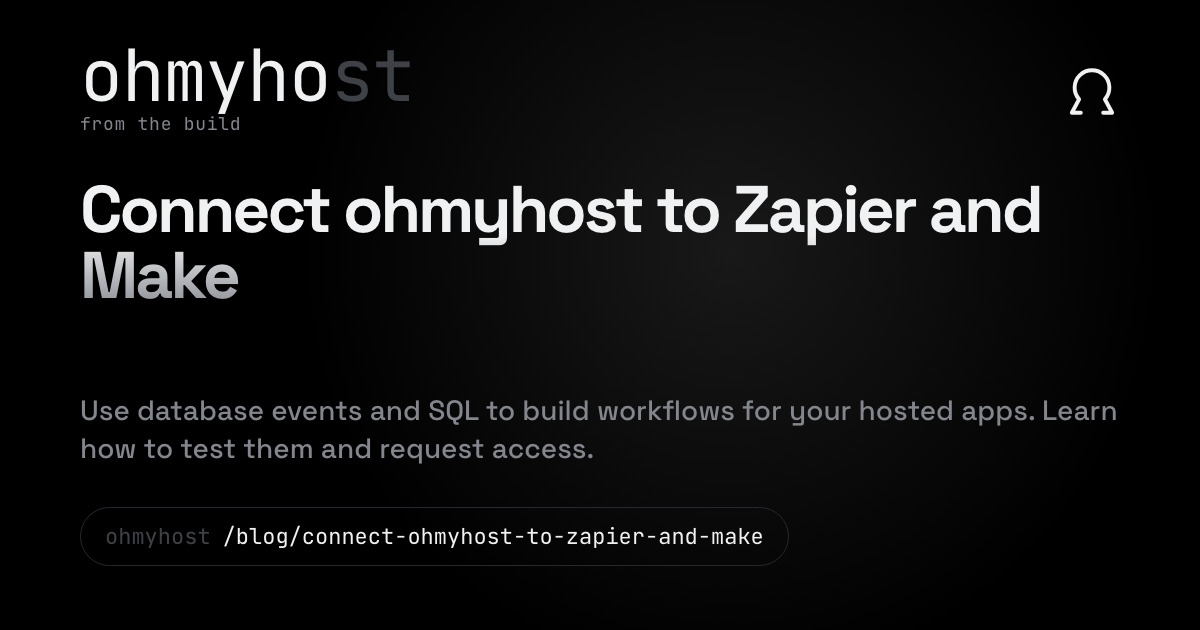
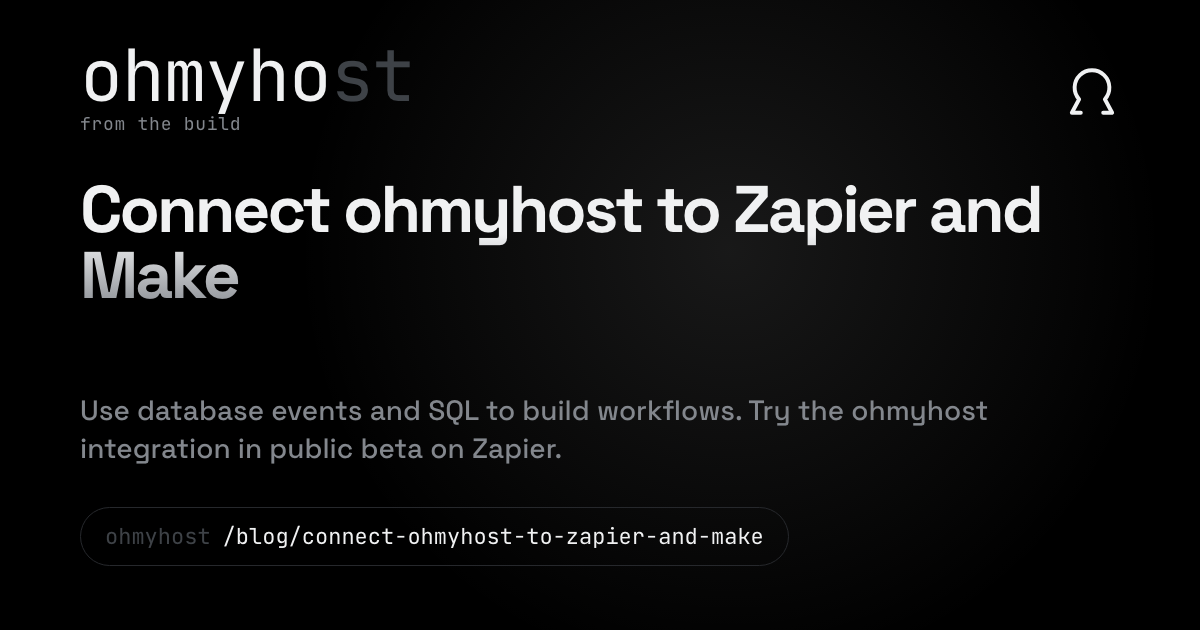
Link the public Zapier beta from the automation guide

Changed region(s): [[0.0617, 0.6937, 0.4933, 0.754], [0.6167, 0.6333, 0.925, 0.6937]]

diff --git a/src/generated-content.ts b/src/generated-content.ts
@@ -53,20 +53,20 @@ export const CONTENT_PAGE_LIST: readonly ContentPage[] = [
     path: "/blog/connect-ohmyhost-to-zapier-and-make",
     title: "Connect your ohmyhost app to Zapier and Make",
     description:
-      "Connect hosted apps to Zapier and Make with database events, SQL actions, and project operations. Learn how to test workflows and request private access.",
+      "Connect hosted apps to Zapier and Make with database events, SQL actions, and project operations. Test workflows and try the public Zapier integration beta.",
     kind: "article",
     crumb: "Zapier and Make integrations",
     parent: "/blog",
     author: "Sebastian Mertens",
     published: "2026-11-16",
-    modified: "2026-11-16",
+    modified: "2026-11-17",
     socialTitle: "Connect ohmyhost to Zapier and Make",
     socialDescription:
-      "Use database events and SQL to build workflows for your hosted apps. Learn how to test them and request access.",
+      "Use database events and SQL to build workflows. Try the ohmyhost integration in public beta on Zapier.",
     ogImage: "/og/blog-connect-ohmyhost-to-zapier-and-make.png",
     ogImageAlt: "ohmyhost: connect your app to Zapier and Make.",
     markdown:
-      "# Connect Your ohmyhost App to Zapier and Make\n\nBy [Sebastian Mertens](https://www.linkedin.com/in/auto-mate/) · November 16, 2026\n\nA customer submits a form in your app. You want your workflow to notice the new record, send the right information to another tool, and update the record when the next step is complete. The ohmyhost integrations for Zapier and Make connect those workflows to your hosted application's database and project operations.\n\nThe integrations are being prepared for wider access. The Zapier integration is in review, and the Make app is currently private to our organization. [Contact us](/contact) to ask about access. The examples below describe the integrations we have tested; they are not a promise that they are already available in the public app directories.\n\n## Choose what should start the workflow\n\nA database webhook lets your workflow react when a row is inserted, updated, or deleted. For example, a booking app can send a new booking to an operations workflow, while a change to the booking status can trigger a follow-up. Choose the events and table that matter to the workflow rather than watching every change in the project.\n\nOn ohmyhost, database change delivery uses a watch and a webhook. The watch identifies the database changes; the webhook delivers the event to the workflow's endpoint. Our end-to-end tests covered insert, update, and delete events in both platforms. The Make test used the native ohmyhost webhook module. The Zapier test received database events through a Catch Hook step.\n\nBefore using a production table, test with a table and records created for the purpose. Check the actual payload in the workflow run: the trigger is only useful if the event contains the information the next step needs.\n\nAsk your coding agent to plan the setup:\n\n```text\nInspect my ohmyhost project and identify the database and environment\nused by [APP]. I want a workflow to react when [TABLE] changes. Explain\nwhich events and fields it needs, how to set up the watch and webhook, and\nhow to verify delivery with test records. Do not expose credentials or change\nproduction data while planning.\n```\n\n## Read and change application data\n\nA workflow can query project data and use the result in a later step. It can also execute SQL writes, such as inserting a new task, updating a status, or deleting a test record. Table creation is available through the API as well. Your agent can help design a small, focused operation and check which database it affects.\n\nFor example, a new form submission could create a row in a task table. A separate workflow could read an existing record and update its status after a human has reviewed it. Keep the conditions explicit: an update or delete without the intended filter can affect more rows than planned.\n\n```text\nHelp me prepare a workflow for [PROJECT] that reads [TABLE] and updates\nonly the record identified by [IDENTIFIER]. Confirm the environment, check\nthe intended SQL and permissions, and test with a disposable record. Show me\nthe result before suggesting any production changes.\n```\n\nUse only the data the workflow needs. Avoid putting private customer information in labels, sample payloads, public documentation, or agent prompts. Store credentials in the platform's connection settings, and give each automation only the access it needs. If an event itself triggers a workflow that writes back to the same table, plan for repeat events so the automation does not run in a loop.\n\n## Design a workflow you can safely repeat\n\nStart with a single outcome and map the data that travels between steps. For a booking app, the outcome might be to notify the team when a new booking arrives. Identify the booking table and the insert event, then decide which fields the notification actually needs. A record identifier and the relevant booking details may be enough; sending an entire customer record to every destination makes the workflow harder to review.\n\nSet up the trigger against a disposable table first. In Make, the tested path uses the ohmyhost webhook module. In Zapier, the tested path uses a Catch Hook URL as the database webhook destination. In both cases, configure the associated database watch and inspect a real event before mapping fields. If the destination field names differ from the example you expected, use the payload you actually received and consult the API reference.\n\nNext, add the destination step and send a test record. Check the destination as well as the platform's run history: a successful trigger alone does not establish that the downstream step produced the right result. Try an update and a delete if your workflow depends on them. An automation that changes the same table it watches can trigger itself, so choose filters and conditions deliberately and verify that a write does not cause an unintended loop.\n\nFinally, consider what happens when a destination is unavailable or the workflow is retried. Use the destination's own history and a stable record identifier to identify repeated deliveries, and design downstream actions so a repeated event does not create an unwanted duplicate. Keep the workflow disabled for live data until its owner understands the failure path and has checked the connection's permissions.\n\n## Connect the right project\n\nAn ohmyhost API key identifies the account and workspace available to the integration. Create and manage keys in [API tokens](https://app.ohmyho.st/tokens), then use the connection setup in the automation platform. Keep the key private; do not paste it into a chat or commit it to your repository. Check which project and environment the workflow will use before testing a write.\n\nThe integrations also include project operations, including requesting project creation and checking the operation's status. Project creation is asynchronous: an accepted request is not the same as a ready project. Wait for the reported result before relying on the new project in a later workflow step.\n\nFor the underlying operations and response fields, use the [ohmyhost API reference](https://docs.ohmyho.st/api). If a field or available action differs from the example here, check the integration version and the API reference before changing a live workflow.\n\n## Test the complete path\n\nA saved configuration is not proof of delivery. Start the Zap or scenario in its test mode, make a change to a disposable row, and inspect the run history. Repeat the check for each event type your workflow uses: insert, update, and delete. Confirm the expected project, table, event type, and record in the received data.\n\nThen check what the following step actually did. Did the destination receive the intended fields? Did an update touch the intended row? Did a deletion leave unrelated data alone? If a trigger receives nothing, inspect the watch, webhook destination, permissions, and the selected environment before repeating the test.\n\nYou can hand this verification to your agent:\n\n```text\nTest my [ZAPIER OR MAKE] workflow against disposable data in [PROJECT].\nVerify that the configured database watch and webhook deliver the events\nused by the workflow. For each event, show the test action, received event,\nworkflow run and downstream result. Investigate failures, preserve unrelated\ndata and report what remains unverified. Do not print credentials.\n```\n\nWhen the test succeeds, remove any temporary records and unused test watches or webhooks. Review the final trigger filters, connection permissions, error handling, and destination before enabling a workflow against live data.\n\n## Getting access\n\nThe ohmyhost Zapier integration is currently in review, while the Make app is private to our organization. If you would like to use either integration, [contact us](/contact) and tell us which platform and workflow you have in mind. You can also explore the [API reference](https://docs.ohmyho.st/api) and learn [how ohmyhost works](/blog/introducing-ohmyho-st).",
+      "# Connect Your ohmyhost App to Zapier and Make\n\nBy [Sebastian Mertens](https://www.linkedin.com/in/auto-mate/) · Published November 16, 2026 · Updated November 17, 2026\n\nA customer submits a form in your app. You want your workflow to notice the new record, send the right information to another tool, and update the record when the next step is complete. The ohmyhost integrations for Zapier and Make connect those workflows to your hosted application's database and project operations.\n\nThe Zapier integration is available in public beta. [Open ohmyhost in the Zapier directory](https://zapier.com/apps/ohmyhost/integrations) to see the available actions and start a Zap. The Make app is private to our organization. [Contact us](/contact) to ask about Make access.\n\n## Choose what should start the workflow\n\nA database webhook lets your workflow react when a row is inserted, updated, or deleted. For example, a booking app can send a new booking to an operations workflow, while a change to the booking status can trigger a follow-up. Choose the events and table that matter to the workflow rather than watching every change in the project.\n\nOn ohmyhost, database change delivery uses a watch and a webhook. The watch identifies the database changes; the webhook delivers the event to the workflow's endpoint. Our end-to-end tests covered insert, update, and delete events in both platforms. The Make test used the native ohmyhost webhook module. The Zapier test received database events through a Catch Hook step.\n\nBefore using a production table, test with a table and records created for the purpose. Check the actual payload in the workflow run: the trigger is only useful if the event contains the information the next step needs.\n\nAsk your coding agent to plan the setup:\n\n```text\nInspect my ohmyhost project and identify the database and environment\nused by [APP]. I want a workflow to react when [TABLE] changes. Explain\nwhich events and fields it needs, how to set up the watch and webhook, and\nhow to verify delivery with test records. Do not expose credentials or change\nproduction data while planning.\n```\n\n## Read and change application data\n\nA workflow can query project data and use the result in a later step. It can also execute SQL writes, such as inserting a new task, updating a status, or deleting a test record. Table creation is available through the API as well. Your agent can help design a small, focused operation and check which database it affects.\n\nFor example, a new form submission could create a row in a task table. A separate workflow could read an existing record and update its status after a human has reviewed it. Keep the conditions explicit: an update or delete without the intended filter can affect more rows than planned.\n\n```text\nHelp me prepare a workflow for [PROJECT] that reads [TABLE] and updates\nonly the record identified by [IDENTIFIER]. Confirm the environment, check\nthe intended SQL and permissions, and test with a disposable record. Show me\nthe result before suggesting any production changes.\n```\n\nUse only the data the workflow needs. Avoid putting private customer information in labels, sample payloads, public documentation, or agent prompts. Store credentials in the platform's connection settings, and give each automation only the access it needs. If an event itself triggers a workflow that writes back to the same table, plan for repeat events so the automation does not run in a loop.\n\n## Design a workflow you can safely repeat\n\nStart with a single outcome and map the data that travels between steps. For a booking app, the outcome might be to notify the team when a new booking arrives. Identify the booking table and the insert event, then decide which fields the notification actually needs. A record identifier and the relevant booking details may be enough; sending an entire customer record to every destination makes the workflow harder to review.\n\nSet up the trigger against a disposable table first. In Make, the tested path uses the ohmyhost webhook module. In Zapier, the tested path uses a Catch Hook URL as the database webhook destination. In both cases, configure the associated database watch and inspect a real event before mapping fields. If the destination field names differ from the example you expected, use the payload you actually received and consult the API reference.\n\nNext, add the destination step and send a test record. Check the destination as well as the platform's run history: a successful trigger alone does not establish that the downstream step produced the right result. Try an update and a delete if your workflow depends on them. An automation that changes the same table it watches can trigger itself, so choose filters and conditions deliberately and verify that a write does not cause an unintended loop.\n\nFinally, consider what happens when a destination is unavailable or the workflow is retried. Use the destination's own history and a stable record identifier to identify repeated deliveries, and design downstream actions so a repeated event does not create an unwanted duplicate. Keep the workflow disabled for live data until its owner understands the failure path and has checked the connection's permissions.\n\n## Connect the right project\n\nAn ohmyhost API key identifies the account and workspace available to the integration. Create and manage keys in [API tokens](https://app.ohmyho.st/tokens), then use the connection setup in the automation platform. Keep the key private; do not paste it into a chat or commit it to your repository. Check which project and environment the workflow will use before testing a write.\n\nThe integrations also include project operations, including requesting project creation and checking the operation's status. Project creation is asynchronous: an accepted request is not the same as a ready project. Wait for the reported result before relying on the new project in a later workflow step.\n\nFor the underlying operations and response fields, use the [ohmyhost API reference](https://docs.ohmyho.st/api). If a field or available action differs from the example here, check the integration version and the API reference before changing a live workflow.\n\n## Test the complete path\n\nA saved configuration is not proof of delivery. Start the Zap or scenario in its test mode, make a change to a disposable row, and inspect the run history. Repeat the check for each event type your workflow uses: insert, update, and delete. Confirm the expected project, table, event type, and record in the received data.\n\nThen check what the following step actually did. Did the destination receive the intended fields? Did an update touch the intended row? Did a deletion leave unrelated data alone? If a trigger receives nothing, inspect the watch, webhook destination, permissions, and the selected environment before repeating the test.\n\nYou can hand this verification to your agent:\n\n```text\nTest my [ZAPIER OR MAKE] workflow against disposable data in [PROJECT].\nVerify that the configured database watch and webhook deliver the events\nused by the workflow. For each event, show the test action, received event,\nworkflow run and downstream result. Investigate failures, preserve unrelated\ndata and report what remains unverified. Do not print credentials.\n```\n\nWhen the test succeeds, remove any temporary records and unused test watches or webhooks. Review the final trigger filters, connection permissions, error handling, and destination before enabling a workflow against live data.\n\n## Getting access\n\nTo get started in Zapier, open the [ohmyhost public beta listing](https://zapier.com/apps/ohmyhost/integrations) and connect your account. For Make access, [contact us](/contact) and tell us which workflow you have in mind. You can also explore the [API reference](https://docs.ohmyho.st/api) and learn [how ohmyhost works](/blog/introducing-ohmyho-st).",
   },
   {
     path: "/blog/free-vercel-supabase-alternatives-2026",

diff --git a/content/blog/connect-ohmyhost-to-zapier-and-make/content.md b/content/blog/connect-ohmyhost-to-zapier-and-make/content.md
@@ -1,10 +1,10 @@
 # Connect Your ohmyhost App to Zapier and Make
 
-By [Sebastian Mertens](https://www.linkedin.com/in/auto-mate/) · November 16, 2026
+By [Sebastian Mertens](https://www.linkedin.com/in/auto-mate/) · Published November 16, 2026 · Updated November 17, 2026
 
 A customer submits a form in your app. You want your workflow to notice the new record, send the right information to another tool, and update the record when the next step is complete. The ohmyhost integrations for Zapier and Make connect those workflows to your hosted application's database and project operations.
 
-The integrations are being prepared for wider access. The Zapier integration is in review, and the Make app is currently private to our organization. [Contact us](/contact) to ask about access. The examples below describe the integrations we have tested; they are not a promise that they are already available in the public app directories.
+The Zapier integration is available in public beta. [Open ohmyhost in the Zapier directory](https://zapier.com/apps/ohmyhost/integrations) to see the available actions and start a Zap. The Make app is private to our organization. [Contact us](/contact) to ask about Make access.
 
 ## Choose what should start the workflow
 
@@ -77,4 +77,4 @@ When the test succeeds, remove any temporary records and unused test watches or 
 
 ## Getting access
 
-The ohmyhost Zapier integration is currently in review, while the Make app is private to our organization. If you would like to use either integration, [contact us](/contact) and tell us which platform and workflow you have in mind. You can also explore the [API reference](https://docs.ohmyho.st/api) and learn [how ohmyhost works](/blog/introducing-ohmyho-st).
+To get started in Zapier, open the [ohmyhost public beta listing](https://zapier.com/apps/ohmyhost/integrations) and connect your account. For Make access, [contact us](/contact) and tell us which workflow you have in mind. You can also explore the [API reference](https://docs.ohmyho.st/api) and learn [how ohmyhost works](/blog/introducing-ohmyho-st).
